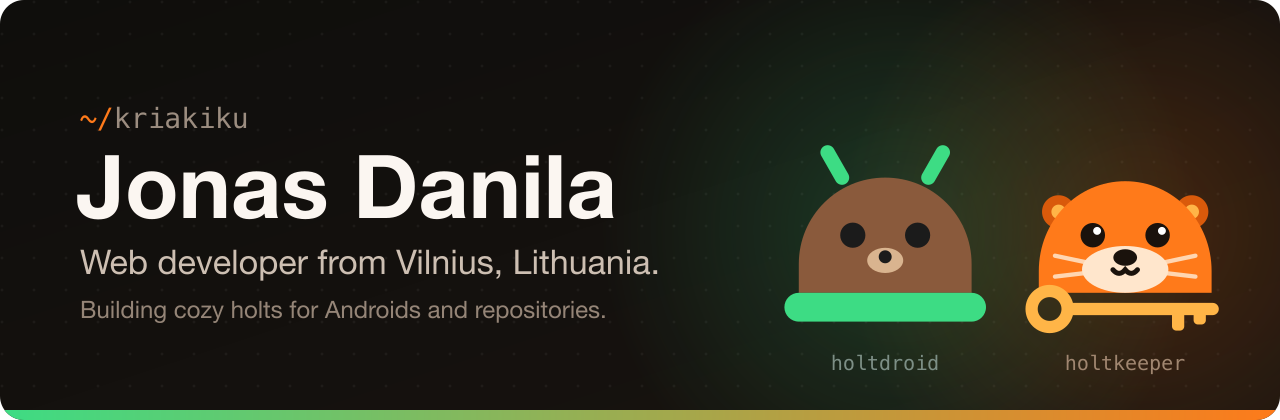
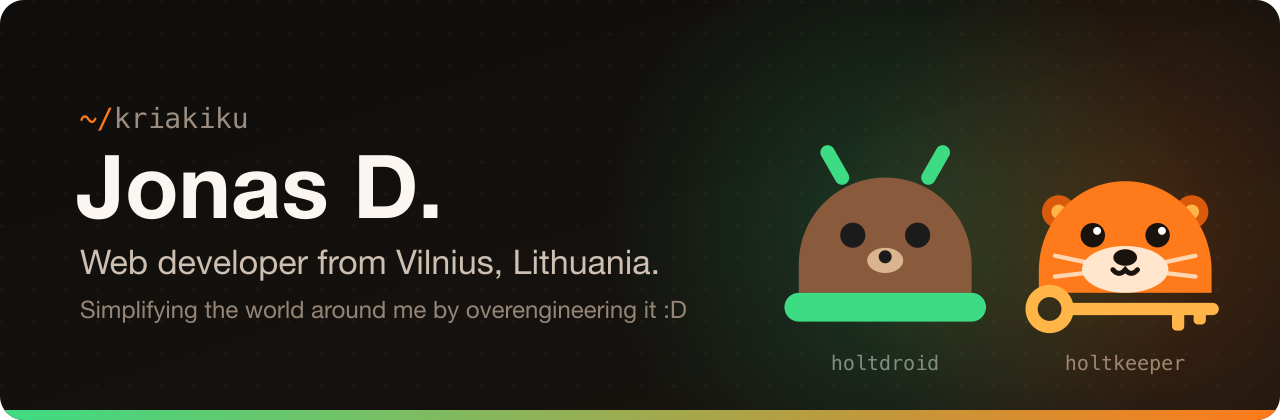
feat: bring back the snake on combined data and simplify the profile

Changed region(s): [[0.0625, 0.7119, 0.5312, 0.7738], [0.3125, 0.3714, 0.5, 0.5262]]

diff --git a/scripts/render.py b/scripts/render.py
@@ -107,9 +107,9 @@ def banner():
     return f"""<svg xmlns="http://www.w3.org/2000/svg" width="{w}" height="{h}" viewBox="0 0 {w} {h}">
 {background(w, h, [(900, 230, 300, GREEN), (1140, 230, 300, ORANGE)], [GREEN, ORANGE])}
 <text x="80" y="128" font-family="{MONO}" font-size="28" fill="#9c8d80"><tspan fill="{ORANGE}">~/</tspan>kriakiku</text>
-<text x="76" y="218" font-family="{FONT}" font-size="88" font-weight="700" fill="#fbf6f1">Jonas Danila</text>
+<text x="76" y="218" font-family="{FONT}" font-size="88" font-weight="700" fill="#fbf6f1">Jonas D.</text>
 <text x="80" y="274" font-family="{FONT}" font-size="34" fill="#cdbfb2">Web developer from Vilnius, Lithuania.</text>
-<text x="80" y="318" font-family="{FONT}" font-size="24" fill="#958577">Building cozy holts for Androids and repositories.</text>
+<text x="80" y="318" font-family="{FONT}" font-size="24" fill="#958577">Simplifying the world around me by overengineering it :D</text>
 <g transform="translate(770 120) scale(3.6)">{HOLTDROID}</g>
 <g transform="translate(1010 120) scale(3.6)">{HOLTKEEPER}</g>
 <text x="885" y="370" text-anchor="middle" font-family="{MONO}" font-size="20" fill="#7d8f86">holtdroid</text>

diff --git a/scripts/stats.py b/scripts/stats.py
@@ -243,3 +243,7 @@ out.mkdir(parents=True, exist_ok=True)
 stats = collect(fetch(), fetch_gitlab())
 (out / "stats.svg").write_text(render(stats))
 (out / "activity.svg").write_text(activity(stats))
+active = sorted(c for c in stats["days"].values() if c)
+cuts = [active[int(len(active) * q)] for q in (0.25, 0.5, 0.75)] if active else []
+levels = {d: (1 + sum(c > t for t in cuts)) if c else 0 for d, c in stats["days"].items()}
+(out / "levels.json").write_text(json.dumps(levels))

diff --git a/README.md b/README.md
@@ -1,5 +1,5 @@
 <p align="center">
-  <img src="assets/banner.png" alt="Jonas Danila — web developer from Vilnius, Lithuania">
+  <img src="assets/banner.png" alt="Jonas D. — web developer from Vilnius, Lithuania, simplifying the world around him by overengineering it">
 </p>
 
 Hi, I'm Jonas, a web developer from Vilnius. Besides web apps I build tools for two everyday chores:
@@ -12,25 +12,6 @@ Each one got its own organization, its own otter and its own holt.
   <a href="https://github.com/holtdroid"><img src="assets/card-holtdroid.png" width="49%" alt="Holtdroid — self-hosted Android sandboxes for APK testing"></a>
   <a href="https://github.com/holtkeeper"><img src="assets/card-holtkeeper.png" width="49%" alt="Holtkeeper — automation engine for a fleet of Git repositories"></a>
 </p>
-
-<table>
-  <tr>
-    <td width="50%" valign="top">
-      <b><a href="https://github.com/holtdroid">Holtdroid</a></b><br>
-      Pick an APK that CI or a sync job dropped into a folder or bucket, launch an Android device on demand
-      and get its screen, Chrome DevTools for the app's WebViews, clipboard sync and a VPN location switcher
-      in one browser tab. Runs on Kubernetes.<br>
-      <sub><a href="https://holtdroid.github.io/">Docs</a> · <a href="https://github.com/holtdroid/holtdroid">holtdroid</a> · <a href="https://github.com/holtdroid/holtdroid-redroid">redroid images</a> · <a href="https://github.com/holtdroid/holtdroid-webview">webview</a> · <a href="https://github.com/holtdroid/chromium-builds">chromium-builds</a></sub>
-    </td>
-    <td width="50%" valign="top">
-      <b><a href="https://github.com/holtkeeper">Holtkeeper</a></b><br>
-      Every automation is a plugin configured as code: AI review of merge requests, package updates that the
-      agent fixes when a pipeline breaks, vulnerability audits, browserslist and releases. Driven from a CLI,
-      a web UI or a chat bot; every change lands as a merge request.<br>
-      <sub><a href="https://github.com/holtkeeper/holtkeeper">holtkeeper</a> · <a href="https://github.com/holtkeeper/holtkeeper/blob/main/docs/PLAN.md">Plan</a></sub>
-    </td>
-  </tr>
-</table>
 
 ## Stack
 
@@ -45,7 +26,10 @@ Each one got its own organization, its own otter and its own holt.
 </p>
 
 <p align="center">
-  <img src="https://raw.githubusercontent.com/kriakiku/kriakiku/output/activity.svg" alt="Daily contributions on GitHub and GitLab over the last year">
+  <picture>
+    <source media="(prefers-color-scheme: dark)" srcset="https://raw.githubusercontent.com/kriakiku/kriakiku/output/snake-dark.svg">
+    <img src="https://raw.githubusercontent.com/kriakiku/kriakiku/output/snake.svg" alt="An orange snake eating the combined GitHub and GitLab contribution graph">
+  </picture>
 </p>
 
 ## Also here
@@ -54,4 +38,4 @@ Each one got its own organization, its own otter and its own holt.
 - Homelab as code: [homelab.nixos](https://github.com/kriakiku/homelab.nixos) · [homelab.k8s](https://github.com/kriakiku/homelab.k8s) · [homelab.ha](https://github.com/kriakiku/homelab.ha) · [homelab.temporal](https://github.com/kriakiku/homelab.temporal) · [dotfiles](https://github.com/kriakiku/dotfiles)
 - macOS: [MeetCallRecorder](https://github.com/kriakiku/MeetCallRecorder) · [speakr-asr-wrapper](https://github.com/kriakiku/speakr-asr-wrapper)
 
-<sub>Widgets are rendered every night by this repository's own workflow: <code>scripts/stats.py</code> combines GitHub with daily totals from the public GitLab calendar.</sub>
+<sub>Widgets are rendered every night by this repository's own workflow: <code>scripts/stats.py</code> combines GitHub with daily totals from the public GitLab calendar, and <a href="https://github.com/Platane/snk">Platane/snk</a> draws the snake over the result.</sub>
